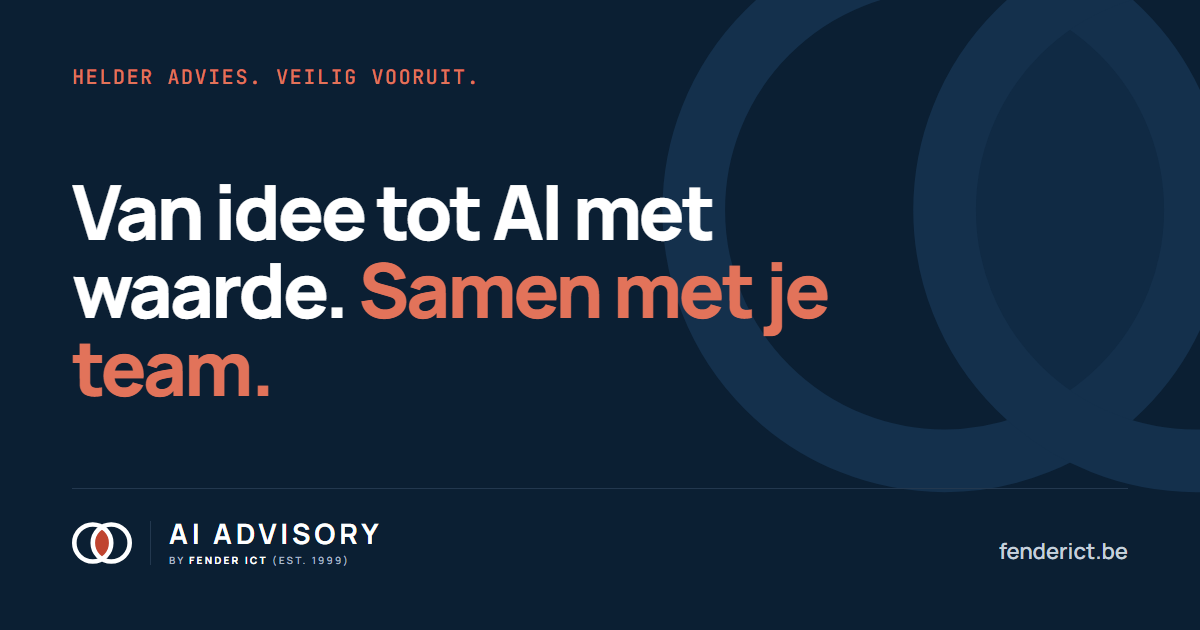
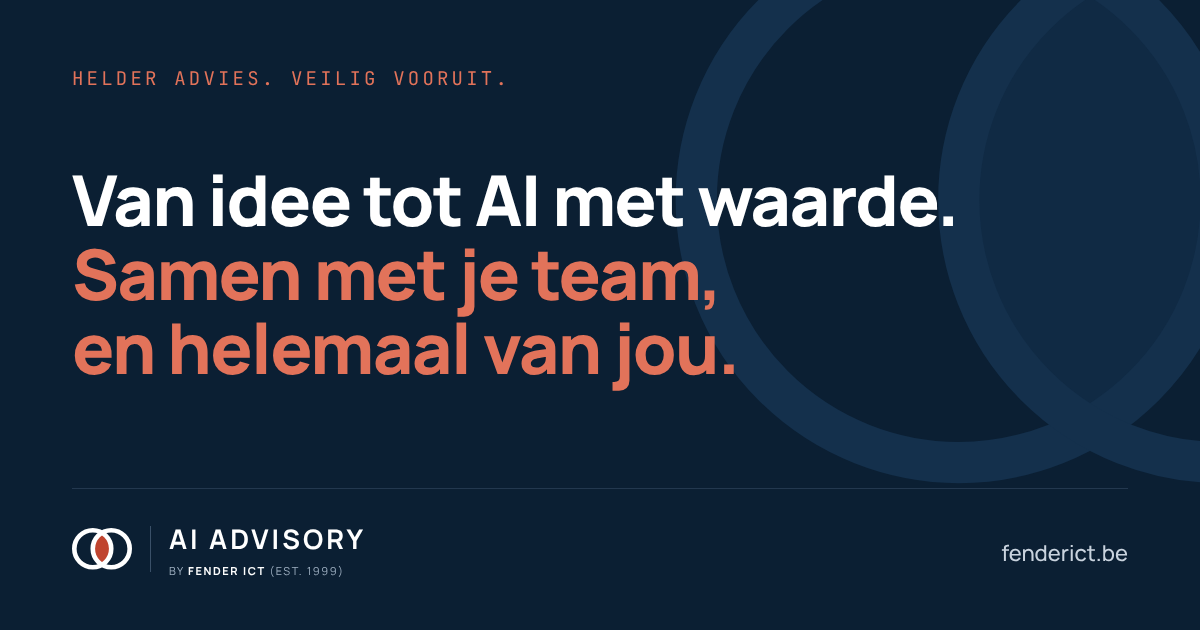
Nieuw deelbeeld met de nieuwe hero
Claude-Session: https://claude.ai/code/session_0174amrbGpGfqxcHcBkY77pA

diff --git a/index.html b/index.html
@@ -10,7 +10,7 @@
 <meta property="og:title" content="AI Advisory by Fender ICT">
 <meta property="og:description" content="Van idee tot AI met waarde. Samen met je team, en helemaal van jou.">
 <meta property="og:url" content="https://fenderict.be/">
-<meta property="og:image" content="https://fenderict.be/assets/og.png">
+<meta property="og:image" content="https://fenderict.be/assets/og.png?v=32">
 <meta property="og:image:width" content="1200">
 <meta property="og:image:height" content="630">
 <meta property="og:image:alt" content="AI Advisory by Fender ICT · Van idee tot AI met waarde. Samen met je team, en helemaal van jou.">
